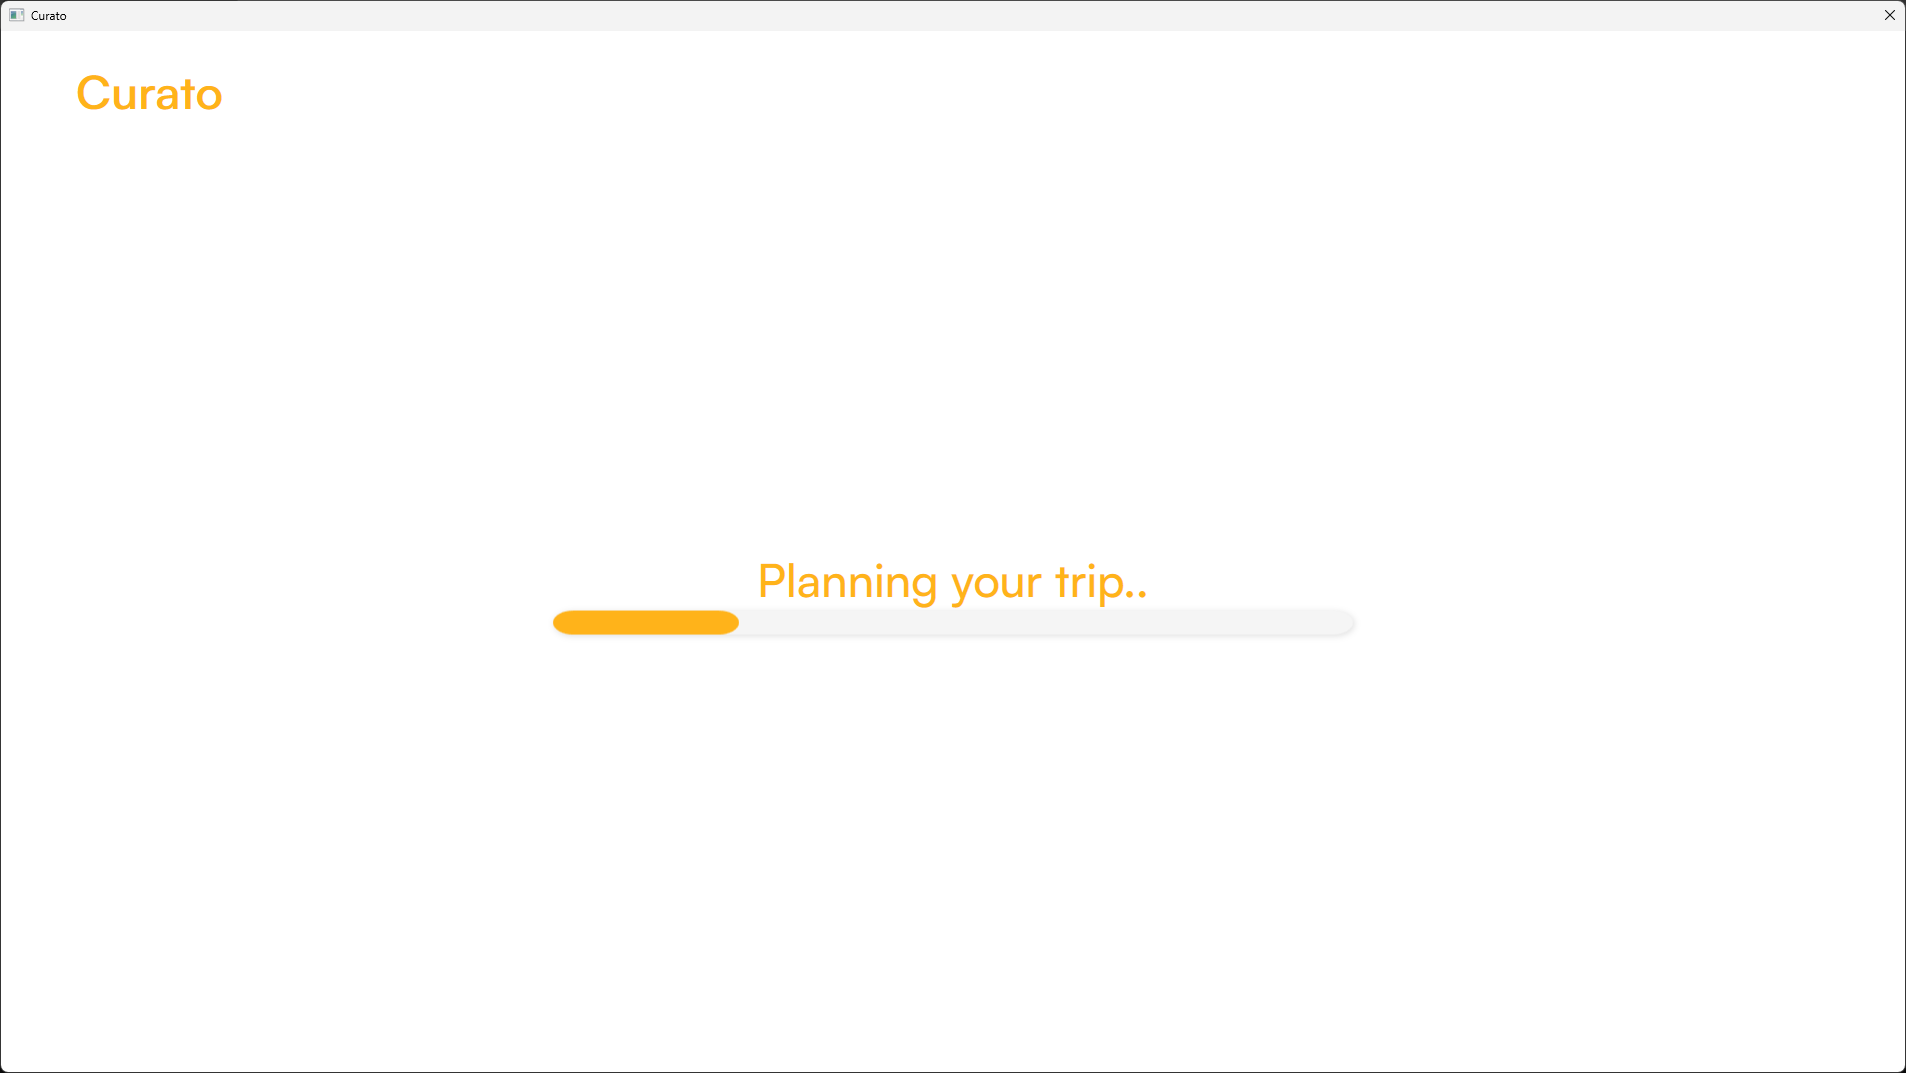
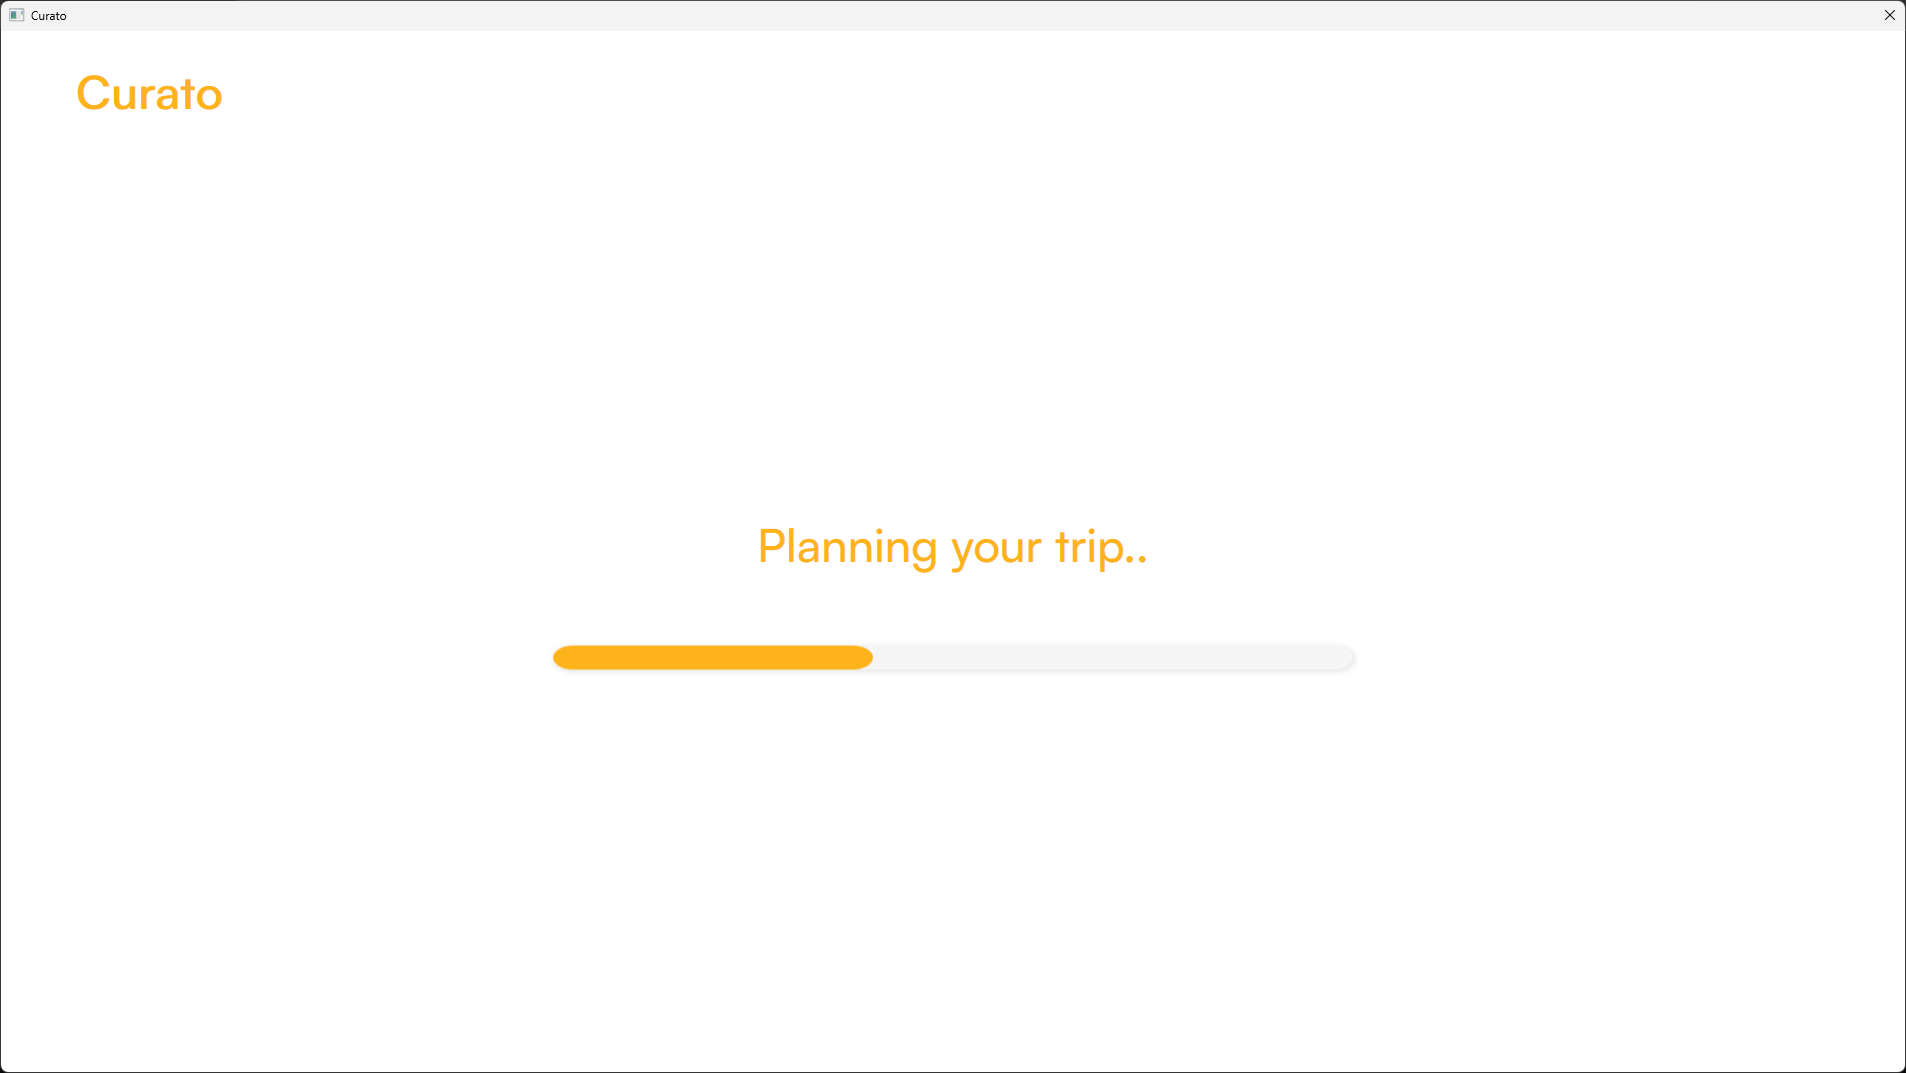
Change Loading Bar position

Changed region(s): [[0.2786, 0.4921, 0.5881, 0.6459]]

diff --git a/Curato/Views/LoadingPage.xaml b/Curato/Views/LoadingPage.xaml
@@ -42,6 +42,7 @@
                     Background="#FFF5F5F5"
                     CornerRadius="20"
                     SnapsToDevicePixels="True"
+                    Margin="0,70,0,0"
                     Effect="{StaticResource ShadowEffect}">
                 <Border x:Name="ProgressBarFill"
                         Width="0"

diff --git a/Curato/Views/LoadingPage.xaml.cs b/Curato/Views/LoadingPage.xaml.cs
@@ -15,7 +15,9 @@ namespace Curato.Views
         private readonly DispatcherTimer progressTimer;
         private int dotCount = 0;
         private readonly string baseText = "Planning your trip";
+        private double MaxBarWidth = 800;
         private double progress = 0;
+
 
         private readonly Func<UserControl>? _onFinished;
 
@@ -47,8 +49,8 @@ namespace Curato.Views
 
         private void ProgressTimer_Tick(object sender, EventArgs e)
         {
-            progress += 2;
-            ProgressBarFill.Width = progress * 3; // Max 300 width
+            progress += 1;
+            ProgressBarFill.Width = progress / 100 * MaxBarWidth;
 
             if (progress >= 100)
             {
